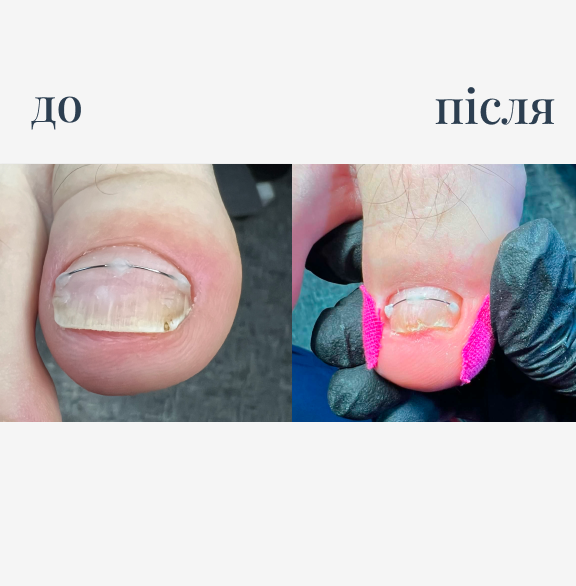
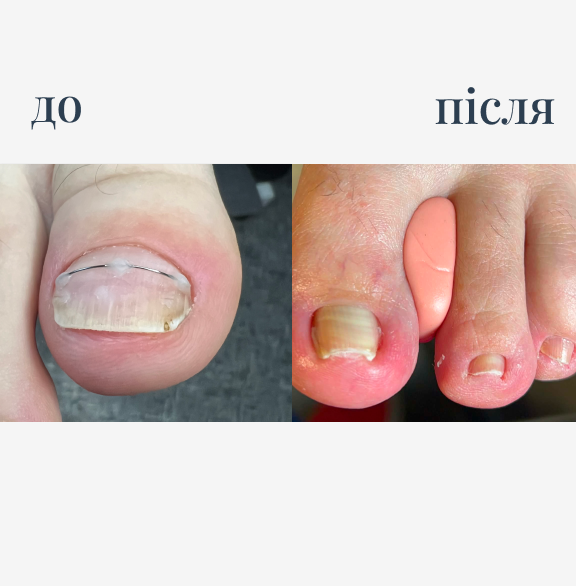
info updated

Changed region(s): [[0.5, 0.2765, 1.0, 0.7372]]

diff --git a/index.html b/index.html
@@ -69,6 +69,11 @@
          </div>
          <div class="services-container">
             <div class="service-style">
+               <img class="services-img" src="services/clean-manicure.jpg" alt="Послуги">
+               <h3 class="service-title">ГІГІЄНІЧНИЙ МАНІКЮР</h3>
+               <p class="service-par">Доглядова процедура для здорових та охайних нігтів і шкіри рук.</p>
+            </div>
+            <div class="service-style">
                <img class="services-img" src="services/service1.png" alt="Послуги">
                <h3 class="service-title">ПЕДИКЮР</h3>
                <p class="service-par">Обробка стоп, зняття довжини нігтів і обробка навколонігтьових валиків</p>
@@ -111,7 +116,7 @@
             <div class="service-style">
                <img class="services-img" src="before_after/before_3.png" alt="Послуги">
                <h3 class="service-title">ТИТАНОВА НИТКА</h3>
-               <p class="service-par">Делікатна корекція врослого нігтя за допомогою титанової нитки.</p>
+               <p class="service-par">Безболісна корекція врослого нігтя та зменшення дискомфорту під час його росту.</p>
             </div>
             <div class="service-style">
                <img class="services-img" src="services/service9.png" alt="Послуги">
@@ -128,9 +133,15 @@
             <div id="prices-container">
                <img class="prices" src="prices/prices-background.png" alt="Ціни">
                <div class="price-grid floating">
+
+                  <article class="price-card">
+                     <img class="service-logo" src="prices/manicure.png" alt="Послуги">
+                     <h3>ГІГІЄНІЧНИЙ МАНІКЮР</h3>
+                     <span>300 грн</span>
+                  </article>
                   <article class="price-card">
                      <img class="service-logo" src="prices/pedicure1.png" alt="Послуги">
-                     <h3>Педикюр</h3>
+                     <h3>ПЕДИКЮР</h3>
                      <span>1300 грн</span>
                   </article>
                   <article class="price-card">
@@ -147,6 +158,11 @@
                      <img class="service-logo" src="prices/four.png" alt="Послуги">
                      <h3>ОБРОБКА ТРІЩИН</h3>
                      <span>900 грн</span>
+                  </article>
+                  <article class="price-card">
+                     <img class="service-logo" src="prices/eight.png" alt="Послуги">
+                     <h3>ОБРОБКА СТОП</h3>
+                     <span>850 грн</span>
                   </article>
                   <article class="price-card">
                      <img class="service-logo" src="prices/five.png" alt="Послуги">
@@ -170,21 +186,14 @@
                      </div>
                   </article>
                   <article class="price-card">
-                     <img class="service-logo" src="prices/eight.png" alt="Послуги">
-                     <h3>ОБРОБКА СТОП</h3>
-                     <span>850 грн</span>
-                  </article>
-                  <article class="price-card">
-                     <img class="service-logo" src="prices/nine.png" alt="Послуги">
+                     <img class="service-logo" src="prices/price-10.png" alt="Послуги">
                      <h3>ТИТАНОВА  НИТКА</h3>
-                     <span>10 грн</span>
+                      <div class="price-list">
+                        <span>Титанова нитка -1500 грн</span>
+                        <span>Переустановка-900 грн</span>
+                     </div>
                   </article>
-                  <article class="price-card">
-                     <img class="service-logo" src="prices/four.png" alt="Послуги">
-                     <h3>ОБРОБКА ПАЛЬЦІВ</h3>
-                     <span>1000 грн</span>
-                  </article>
-                  <a class="menu-btn" href="sms:[phone redacted]?body=Добрий%20день%2C%20хочу%20записатися">записатися</a>
+                <a class="menu-btn" href="sms:[phone redacted]?body=Добрий%20день%2C%20хочу%20записатися">записатися</a>
                </div>
             </div>
          </div>
@@ -252,26 +261,43 @@
             </button>
          </div>
       </section>
+
       <section id="container-reviews">
          <div class="services-header">
             <h2 class="title-aboutMe">Відгуки</h2>
             <p class="about-par">Реальні відгуки від людей, які довірили мені здоров’я своїх стоп.</p>
+            
             <div class="reviewa-container">
+
+                 <button class="btn-back" id="review-back">
+                  <img class="slide back"  src="certificates/back.gif" alt="назад" width="35px">
+                </button>
+
                <div class="review-item">
-                  <span class="review-label">⭐ ⭐ ⭐ ⭐ ⭐</span>
-                  <img class="image-review" src="photos/review_1.JPG" alt="Відгук 1">
-               </div>
-               <div class="review-item">
+                <span class="review-label">⭐ ⭐ ⭐ ⭐ ⭐</span>
+               <img class="review-slide" src="photos/review_1.JPG" alt="Відгук 1">
+                </div>
+
+                 <button class="btn-next" id="review-next">
+                    <img class="slide next"  src="certificates/next.gif" alt="далі" width="35px">
+                 </button>
+
+
+              
+
+
+               <!-- <div class="review-item">
                   <span class="review-label">⭐ ⭐ ⭐ ⭐ ⭐</span>
                   <img class="image-review" src="photos/review_2.JPG" alt="Відгук 2">
                </div>
                <div class="review-item">
                   <span class="review-label">⭐ ⭐ ⭐ ⭐ ⭐</span>
                   <img class="image-review" src="photos/review_4.JPG" alt="Відгук 4"> 
-               </div>
+               </div> -->
             </div>
          </div>
       </section>
+
       <section id="container-contacts">
          <div class="contacts-container">
             <div class="contacts-item">

diff --git a/index.js b/index.js
@@ -2,14 +2,28 @@ const back = document.querySelector('#back');
 const next = document.querySelector('#next');
 const slideImage = document.querySelector('#slide');
 
+const reviewBack = document.querySelector('#review-back');
+const reviewNext = document.querySelector('#review-next');
+const reviewSlide = document.querySelector('.review-slide');
+
 const photos = 
 ["certificates/certificat_1.jpeg", 
 "certificates/certificat_2.jpeg",
 "certificates/certificat_3.png",
 "certificates/certificat_4.jpg",
 "certificates/certificat_5.jpg",
+"certificates/certificat_6.jpg"
 ];
-let i=0;
+
+const reviews = [
+    "photos/review_1.JPG",
+    "photos/review_2.JPG",
+    "photos/review_3.JPG",
+    "photos/review_4.JPG",
+    "photos/review_5.jpeg"
+]
+
+let i = 0;
 if (next && back && slideImage) {
 next.addEventListener('click', () => {
 i++;
@@ -24,6 +38,24 @@ if(i < 0){
 i = photos.length - 1;
 }
 slideImage.src = photos[i];
+});
+}
+
+let j = 0;
+if (reviewNext && reviewBack && reviewSlide) {
+reviewNext.addEventListener('click', () => {
+j++;
+if(j > reviews.length - 1){
+j = 0;
+}
+reviewSlide.src = reviews[j];
+});
+reviewBack.addEventListener('click', () => {
+j--;
+if(j < 0){
+j = reviews.length - 1;
+}
+reviewSlide.src = reviews[j];
 });
 }
 

diff --git a/style.css b/style.css
@@ -443,17 +443,21 @@ border: none;
 }
 .reviewa-container{
 display: flex;
-flex-direction: row;
+justify-content: center;
+align-items: center;
+gap: 12px;
+/* display: flex;
+justify-content: center;
+align-content: center;
 flex-wrap: wrap;
-justify-content: space-around;
-gap: 20px;
-padding: 40px;
+position: relative; */
 }
+
 .review-item{
-flex: 1 1 320px;          
+           
 max-width: 360px;
 position: relative;
-overflow: visible;
+margin-top: 30px;
 background-color: #fefefc;
 border: 1px solid #284563;
 border-radius: 5px;
@@ -484,10 +488,8 @@ color: #2C3E50;
 line-height: 1.2;
 z-index: 2;
 }
-.image-review{
-width: 250px;
-height: auto;
-margin: 20px auto 10px;
+.review-slide{
+width: 300px;
 }
 .contacts-container{
 display: flex;
@@ -783,6 +785,7 @@ align-items: flex-start;
 .benefit-item img.icon {
 margin-top: 2px;
 }
+
 }
 
 @media (max-width: 400px) {